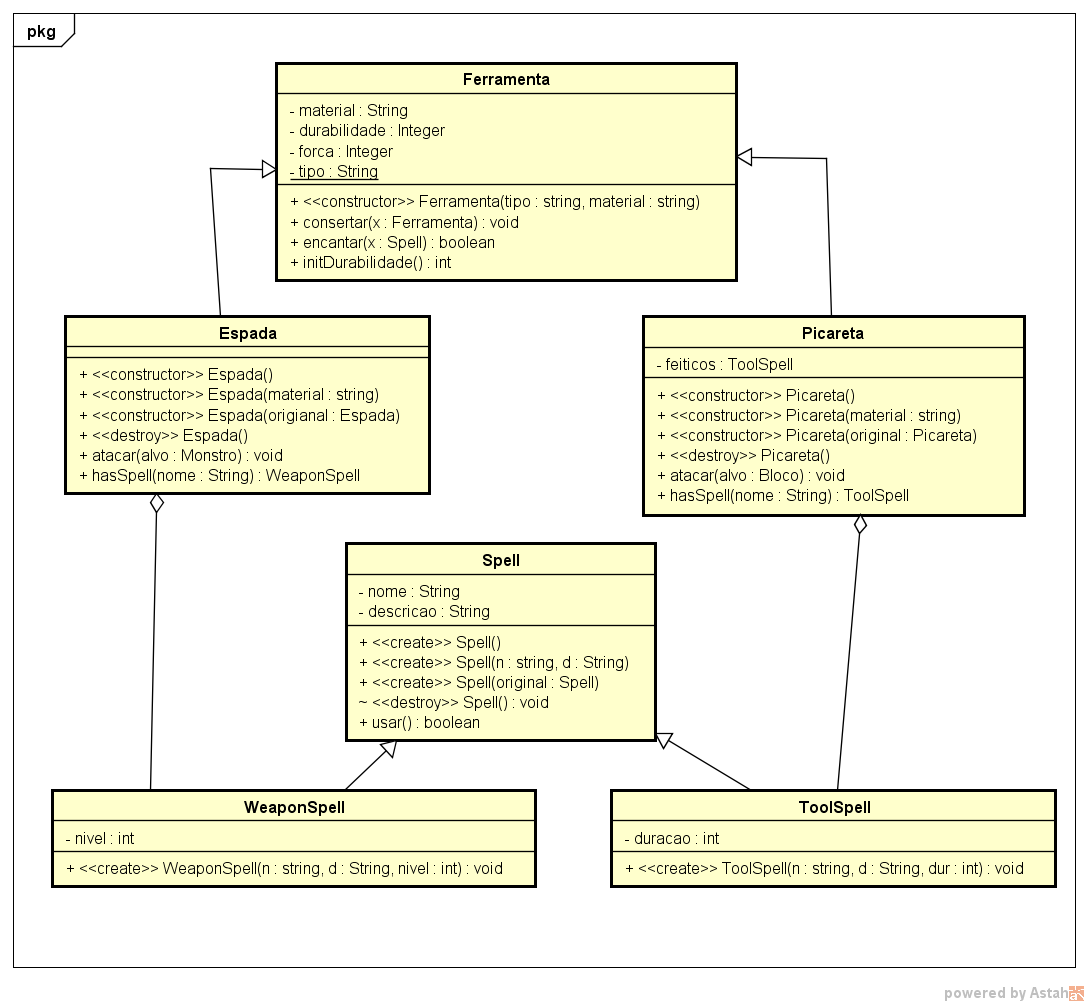
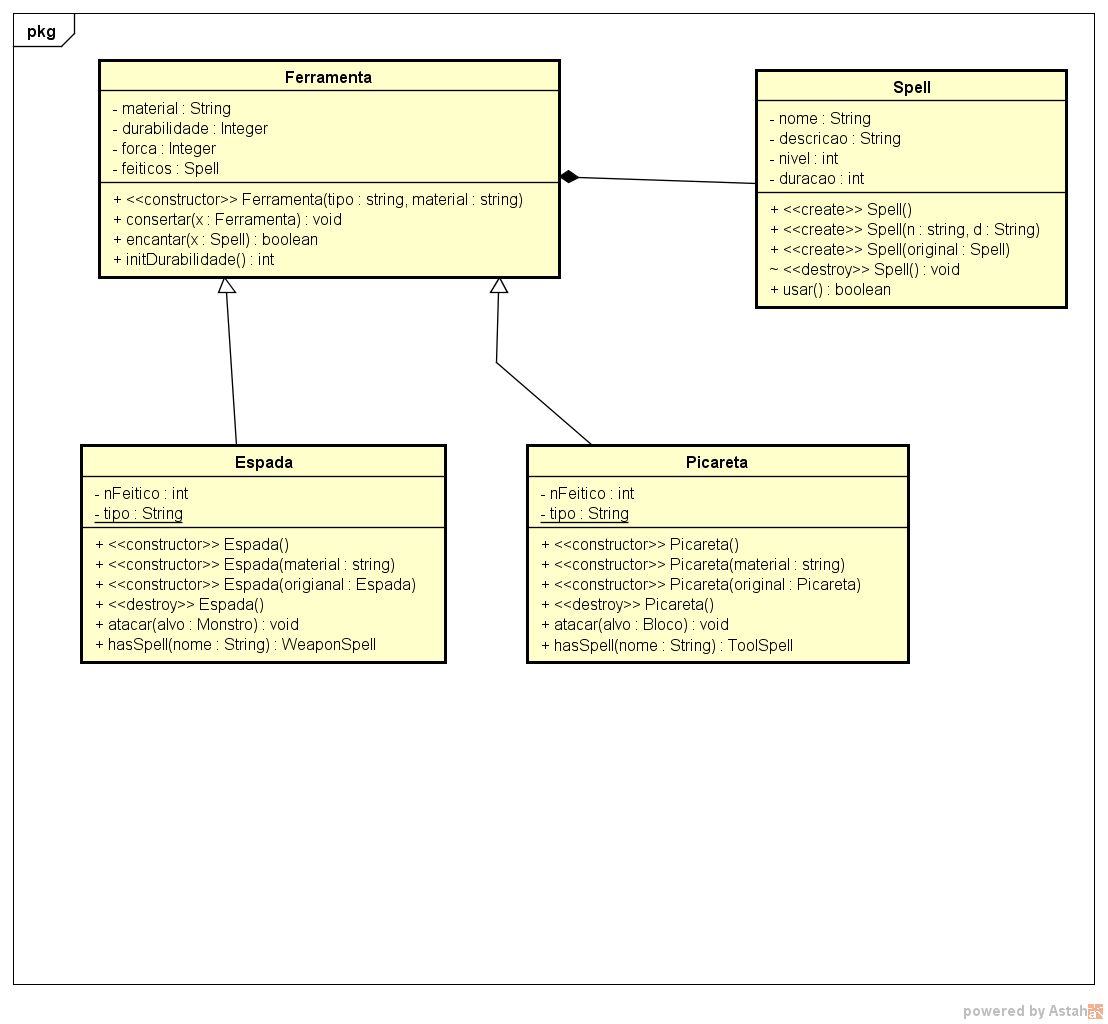
muita coisa pra consertar

diff --git a/Picareta.cpp b/Picareta.cpp
@@ -6,94 +6,54 @@
 #include <stdlib.h>
 //#include <conio2.h>
 
-using namespace std;
+using std::string;
+using std::ostream;
 //estaticos
-int Picareta::preco=10;
+string Picareta::tipo="picareta";
 //Construtores
 Picareta::Picareta()
 {
     material="madeira";
     feitico=0;
-    nfeitico=0;    
+    nFeitico=0;
     initDurabilidade();
-    cout<<"voce ganhou uma picareta de "<<material<<endl;
 }
 Picareta::Picareta(const string & str)
 {
     feitico=0;
-    nfeitico=0;
+    nFeitico=0;
     if (str=="madeira" || str=="pedra" || str=="ferro" || str=="ouro" || str=="diamante")
         material=str;
     else 
-    {   cout<<"esse material nao produz picaretas,usando madeira"<<endl;
+    {   
         material="madeira";
     }
     initDurabilidade();//depois usara um metodo statico para definir o valor
-    cout<<"voce ganhou uma picareta de "<<material<<endl;
 }
 Picareta::Picareta(const Picareta & original)
 {
     int i;
-    this->feitico= new Spell*[original.nfeitico];
-    for (i=0;i<nfeitico;i++)
-        this->feitico[i]=new Spell(*original.feitico[i]);
+    
     this->material=original.material;
     this->durabilidade=original.durabilidade;
     this->forca=original.forca;
-    this->nfeitico=original.nfeitico;
+    this->nFeitico=original.nFeitico;
+    this->feitico= new Spell*[original.nFeitico];
+    
+    for (i=0;i<nFeitico;i++)
+        this->feitico[i]=new Spell(*original.feitico[i]);
 }
-bool Picareta::encantar(const Spell & tipoDeFeitico)
+
+
+ostream & operator<<(ostream & output,const Picareta & picareta)
 {
-    //INCREMENTA VETOR
-        int i=0;
-        Spell ** AUX =new Spell*[++nfeitico]; //cria um novo vetor
-        
-        for (i=0;i<nfeitico-1;i++)
-            AUX[i]=feitico[i]; // copia o antigo no novo
-        
-        delete [] feitico; //apaga o antigo
-    //
-    feitico=AUX; //poe o novo no objeto
-    feitico[nfeitico-1]=new Spell(tipoDeFeitico);
-    return true;
-}
-int Picareta::initDurabilidade()
-{
-    if  (material=="ouro")
-         { durabilidade= 32;
-           forca=12;
-           return durabilidade;
-         }
-    else if  (material=="madeira")
-         { durabilidade= 59;
-           forca=4;
-           return durabilidade;
-         }
-    else if  (material=="pedra")
-         {  durabilidade= 131;
-            forca=6;
-            return durabilidade;
-         }
-    else if  (material=="ferro") 
-         {  durabilidade= 250;
-            forca=8;
-            return durabilidade;
-         }
-    else if  (material=="diamante")
-         { durabilidade= 1561;
-           forca=10;
-           return durabilidade;
-         }
-    return durabilidade;                                
-}
-int Picareta::mostrarDurabilidade()
-{
-    cout<<"restam "<<durabilidade<<" usos"<<endl;
     int i;
-    for (i=0;i<nfeitico;i++)
-    cout<<feitico[i]->getNome()<<"("<<feitico[i]->getDuracao()<<")";
-    cout<<endl;
-    return durabilidade;
+    output<<"picareta de "<<picareta.getMaterial<<"dur:"<<picareta.getDurabilidade;
+    for (i=0;i<picareta.nFeitico;i++)
+        output<<picareta.feitico[i]->getNome()<<"("<<picareta.feitico[i]->getDuracao()<<")";
+    output<<endl;
+    
+    return output;
 }
 //INTERACAO COM OUTROS OBJETOS
 bool Picareta::atacar( Bloco & target )
@@ -121,7 +81,7 @@ bool Picareta::atacar( Bloco & target )
 Spell* Picareta::hasSpell(const string & nome)
 {
     int i;
-    for (i=0;i<nfeitico;i++)
+    for (i=0;i<nFeitico;i++)
     {
         if ((feitico[i]->getNome())==nome)
            if (feitico[i]->getDuracao()>0)

diff --git a/main.cpp b/main.cpp
@@ -16,20 +16,20 @@ int main()
     Mapa  mundo(str,data);
     cout<<"insira uma material para a picareta (pedra,diamante,ouro,ferro,madeira)"<<endl;
     cin>>str;
-    Picareta ferramenta(str);
-    ferramenta.mostrarDurabilidade();
+    Picareta tool(str);
+    cout<<tool;
     while (op!='x')
     {
     system("cls");
     mundo.refresh();
     cout <<"mover(a,s,d,w),sair(x)="<<endl;
     cout <<"durabilidade=";
-    ferramenta.mostrarDurabilidade();
+    cout<<tool;
     cin>>op;
     //op=getch();
     if ((op=='d')||(op=='a')||(op=='w')||(op=='s'))
     {
-       ferramenta.atacar(mundo.getBloco(op));
+       tool.atacar(mundo.getBloco(op));
        mundo.movePlayer(op);
     }
     if (op=='t')
@@ -41,7 +41,7 @@ int main()
     if (op=='e')
        {
        Spell spellTemp;
-       ferramenta.encantar(spellTemp);
+       tool.encantar(spellTemp);
        cout<<"picareta encantada"<<endl;
        system("pause"); 
        }

diff --git a/Bloco.cpp b/Bloco.cpp
@@ -3,7 +3,7 @@
 #include <windows.h>
 #include <string>
 //#include <conio2.h>
-using namespace std;//BLOCO
+using std::string;//BLOCO
 Bloco::Bloco(string str)
 {
  material=str;
@@ -24,20 +24,12 @@ Bloco::Bloco(const Bloco& original)
 ostream & operator<<(ostream & output,const Bloco & bloco)
 {
     
-     
+    //textcolor(cor);
+    //cout<<(char)178;//imprime o simbolo 178 da tabela ascii
      if (bloco.resistencia!=0)
-     {
-        //textcolor(cor);
-        //cout<<(char)178;//imprime o simbolo 178 da tabela ascii
         output<<bloco.material[0];
-     }
      else
-     {
-         //textcolor(0);
-         //cout<<(char)176;//imprime o simbolo 176 da tabela ascii
-         output<<" ";
-     }
-     //textcolor(15);
+        output<<" ";
 return output;    
 }
 const Bloco& Bloco::operator=(const Bloco & toCopy)

diff --git a/Picareta.h b/Picareta.h
@@ -2,31 +2,19 @@
 #define PICARETA_H
 #include <string>
 #include "Bloco.h"
-#include "Spell.h"
-using namespace std;
+#include "Ferramenta.h"
+using std::string;
 
-class Picareta
+class Picareta : public Ferramenta
 {
-    public:
+public:
     Picareta();
     Picareta(const string &);
     Picareta(const Picareta &);
     ~Picareta();
-
-    int initDurabilidade();//define a durabilidade dependendo do tipo,retorna o valor maximo
     bool atacar( Bloco &);
-    bool encantar(const Spell &);
-    bool consertar( Picareta &);
-    Spell* hasSpell(const string &);
-    int mostrarDurabilidade();
-    
-    private:
-    string material;
-    int durabilidade;
-    int forca;
-    int nfeitico;
-    Spell **feitico;
-    
-    static int preco;
+
+private:
+    static string tipo;
 };
 #endif // PICARETA_H
